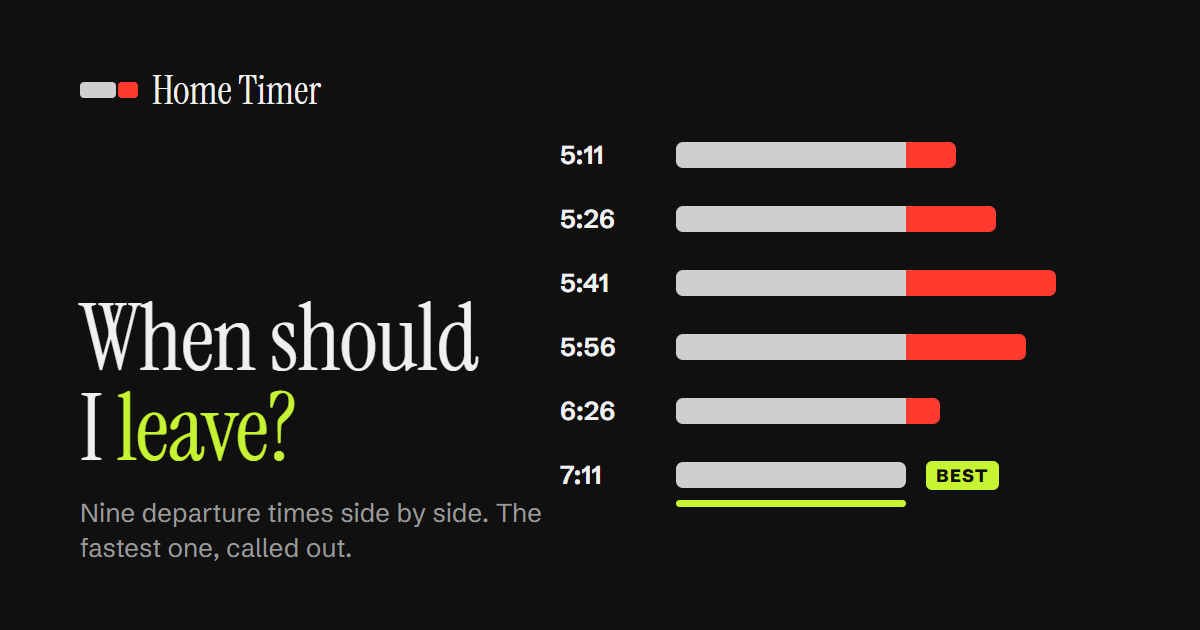
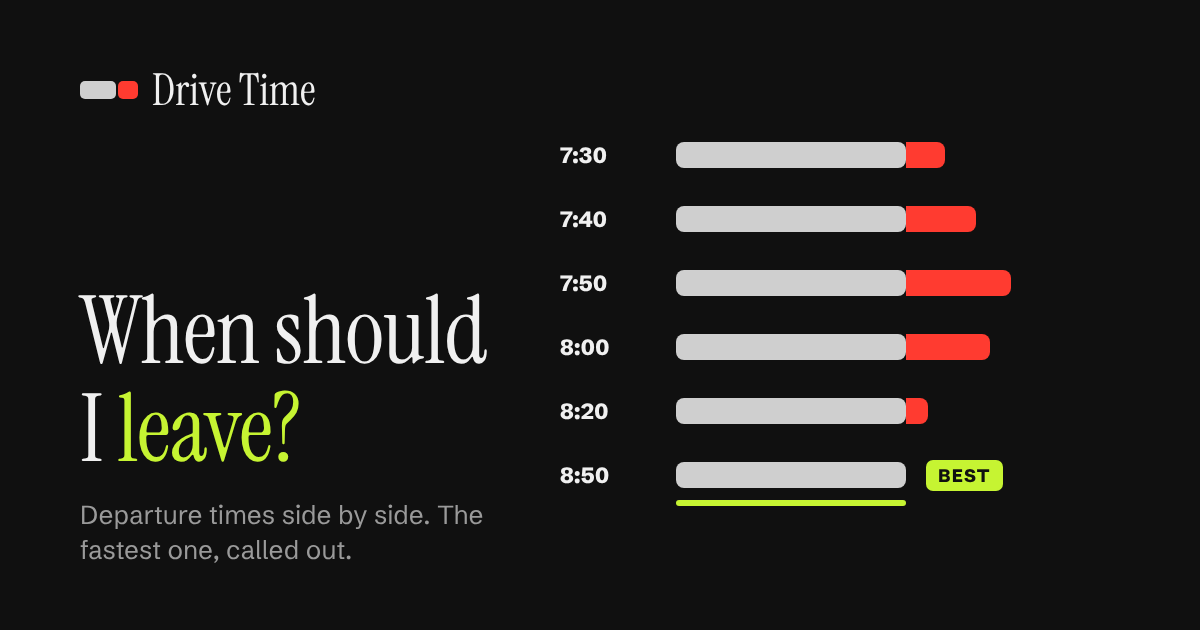
feat: rename the app Drive Time and serve it on drive-time.unit42.fr
UI name, manifest, SEO (title, Open Graph, canonical, JSON-LD, sitemap, robots), the social
image and the docs now say Drive Time. The old host stays attached to the Worker, and the
Worker keeps its name so Workers Builds still matches.

diff --git a/index.html b/index.html
@@ -3,13 +3,13 @@
   <head>
     <meta charset="UTF-8" />
     <meta name="viewport" content="width=device-width, initial-scale=1.0, viewport-fit=cover" />
-    <title>Home Timer: when should I leave?</title>
+    <title>Drive Time: when should I leave?</title>
     <meta
       name="description"
-      content="Compare car travel times for nine departure times side by side and find the best moment to leave. Typical traffic by weekday and time, free, no account."
+      content="Compare car travel times for departure times over the next hours, side by side, and find the best moment to leave. Typical traffic by weekday and time, adjusted for live traffic. Free, no account."
     />
     <meta name="robots" content="index, follow" />
-    <link rel="canonical" href="https://home-timer.unit42.fr/" />
+    <link rel="canonical" href="https://drive-time.unit42.fr/" />
 
     <link rel="icon" type="image/svg+xml" href="/favicon.svg" />
     <link rel="icon" type="image/png" sizes="32x32" href="/icons/favicon-32.png" />
@@ -19,40 +19,40 @@
     <meta name="color-scheme" content="dark light" />
     <meta name="apple-mobile-web-app-capable" content="yes" />
     <meta name="apple-mobile-web-app-status-bar-style" content="black-translucent" />
-    <meta name="apple-mobile-web-app-title" content="Home Timer" />
+    <meta name="apple-mobile-web-app-title" content="Drive Time" />
 
     <meta property="og:type" content="website" />
-    <meta property="og:site_name" content="Home Timer" />
-    <meta property="og:title" content="Home Timer: when should I leave?" />
+    <meta property="og:site_name" content="Drive Time" />
+    <meta property="og:title" content="Drive Time: when should I leave?" />
     <meta
       property="og:description"
-      content="Nine departure times side by side, with the fastest one called out. Typical traffic, no account."
+      content="Departure times side by side, with the fastest one called out. Typical traffic adjusted for live traffic, no account."
     />
-    <meta property="og:url" content="https://home-timer.unit42.fr/" />
-    <meta property="og:image" content="https://home-timer.unit42.fr/og-image.png" />
+    <meta property="og:url" content="https://drive-time.unit42.fr/" />
+    <meta property="og:image" content="https://drive-time.unit42.fr/og-image.png" />
     <meta property="og:image:width" content="1200" />
     <meta property="og:image:height" content="630" />
     <meta
       property="og:image:alt"
-      content="Home Timer: bars comparing nine departure times, the fastest one underlined."
+      content="Drive Time: bars comparing departure times, the fastest one underlined."
     />
     <meta property="og:locale" content="en_US" />
     <meta property="og:locale:alternate" content="fr_FR" />
     <meta name="twitter:card" content="summary_large_image" />
-    <meta name="twitter:title" content="Home Timer: when should I leave?" />
+    <meta name="twitter:title" content="Drive Time: when should I leave?" />
     <meta
       name="twitter:description"
-      content="Nine departure times side by side, with the fastest one called out. Typical traffic, no account."
+      content="Departure times side by side, with the fastest one called out. Typical traffic adjusted for live traffic, no account."
     />
-    <meta name="twitter:image" content="https://home-timer.unit42.fr/og-image.png" />
+    <meta name="twitter:image" content="https://drive-time.unit42.fr/og-image.png" />
 
     <script type="application/ld+json">
       {
         "@context": "https://schema.org",
         "@type": "WebApplication",
-        "name": "Home Timer",
-        "url": "https://home-timer.unit42.fr/",
-        "description": "Compare car travel times for nine departure times side by side and find the best moment to leave.",
+        "name": "Drive Time",
+        "url": "https://drive-time.unit42.fr/",
+        "description": "Compare car travel times for departure times over the next hours, side by side, and find the best moment to leave.",
         "applicationCategory": "NavigationApplication",
         "operatingSystem": "Any",
         "browserRequirements": "Requires a modern browser with JavaScript",
@@ -64,8 +64,8 @@
   <body>
     <div id="root"></div>
     <noscript>
-      Home Timer compares car travel times for nine departure times so you can pick the best moment
-      to leave. It needs JavaScript to run.
+      Drive Time compares car travel times for departure times over the next hours so you can pick
+      the best moment to leave. It needs JavaScript to run.
     </noscript>
     <script type="module" src="/src/main.tsx"></script>
   </body>

diff --git a/src/i18n/fr.ts b/src/i18n/fr.ts
@@ -4,7 +4,7 @@ type Widen<T> = T extends string ? string : never;
 export type Messages = { [K in keyof typeof en]: Widen<(typeof en)[K]> };
 
 export const fr: Messages = {
-  appName: 'Home Timer',
+  appName: 'Drive Time',
   settings: 'Paramètres',
   from: 'De',
   to: 'Vers',
@@ -42,7 +42,7 @@ export const fr: Messages = {
   settings_privacy: 'Vos lieux restent sur cet appareil',
   settings_save: 'Enregistrer',
   settings_close: 'Fermer',
-  onboarding_title: 'Bienvenue dans Home Timer',
+  onboarding_title: 'Bienvenue dans Drive Time',
   empty_state: 'Aucun trajet enregistré pour le moment',
   loading: 'Chargement...',
   error_unavailable: 'Le service est indisponible pour le moment. Réessayez plus tard.',

diff --git a/src/i18n/en.ts b/src/i18n/en.ts
@@ -1,5 +1,5 @@
 export const en = {
-  appName: 'Home Timer',
+  appName: 'Drive Time',
   settings: 'Settings',
   from: 'From',
   to: 'To',
@@ -37,7 +37,7 @@ export const en = {
   settings_privacy: 'Your places stay on this device',
   settings_save: 'Save',
   settings_close: 'Close',
-  onboarding_title: 'Welcome to Home Timer',
+  onboarding_title: 'Welcome to Drive Time',
   empty_state: 'No trips saved yet',
   loading: 'Loading...',
   error_unavailable: 'The service is unavailable right now. Please try again later.',

diff --git a/src/components/BrandBand/BrandBand.test.tsx b/src/components/BrandBand/BrandBand.test.tsx
@@ -12,7 +12,7 @@ describe('BrandBand', () => {
         <BrandBand onOpenSettings={onOpenSettings} />
       </I18nProvider>,
     );
-    expect(screen.getByRole('heading', { name: 'Home Timer' })).toBeInTheDocument();
+    expect(screen.getByRole('heading', { name: 'Drive Time' })).toBeInTheDocument();
     await userEvent.click(screen.getByRole('button', { name: 'Settings' }));
     expect(onOpenSettings).toHaveBeenCalledOnce();
   });

diff --git a/worker/proxy.test.ts b/worker/proxy.test.ts
@@ -2,7 +2,7 @@
 import { describe, expect, it, vi } from 'vitest';
 import { handleApiRequest, type Env, type Fetcher } from './proxy';
 
-const ORIGIN = 'https://home-timer.unit42.fr';
+const ORIGIN = 'https://drive-time.unit42.fr';
 const KEY = 'server-secret';
 const SAME_ORIGIN = { 'Sec-Fetch-Site': 'same-origin' };
 const ROUTE = '/api/routing/1/calculateRoute/45.764043,4.835659:48.856614,2.352222/json';

diff --git a/src/App.test.tsx b/src/App.test.tsx
@@ -83,7 +83,7 @@ beforeEach(() => {
 describe('App', () => {
   it('renders heading', () => {
     renderApp();
-    expect(screen.getByRole('heading', { name: /Home Timer/i })).toBeInTheDocument();
+    expect(screen.getByRole('heading', { name: /Drive Time/i })).toBeInTheDocument();
   });
 
   it('answers first, then shows nine departures with the best one tagged', () => {

diff --git a/vite.config.ts b/vite.config.ts
@@ -10,8 +10,8 @@ export default defineConfig(
       VitePWA({
         registerType: 'autoUpdate',
         manifest: {
-          name: 'Home Timer',
-          short_name: 'Home Timer',
+          name: 'Drive Time',
+          short_name: 'Drive Time',
           display: 'standalone',
           lang: 'en',
           description:

diff --git a/DESIGN.md b/DESIGN.md
@@ -1,5 +1,5 @@
 ---
-name: Home Timer
+name: Drive Time
 description: A night-first departure comparison in neutral tarmac grey, where pale grey bars show the trip, red shows the minutes traffic adds, and one acid lime marks everything you can act on.
 colors:
   ground: '#101010'
@@ -184,13 +184,13 @@ components:
     rounded: '{rounded.sheet}'
 ---
 
-# Design System: Home Timer
+# Design System: Drive Time
 
 ## Overview
 
 **Creative North Star: "Tarmac"**
 
-Home Timer is read at the door, in the car, or at a dim desk before dawn, so it is night-first: a true neutral near-black ground (#101010) with no warm or blue cast, like a road at night. Colour is rationed to two signals that carry meaning and nothing else competes with them: **acid lime** is everything you can act on or should take (focus, the active choice, the primary action, the best slot), and **traffic red** is the minutes traffic adds. The trip itself is a pale grey bar, so a driver reads the length first and the cost second.
+Drive Time is read at the door, in the car, or at a dim desk before dawn, so it is night-first: a true neutral near-black ground (#101010) with no warm or blue cast, like a road at night. Colour is rationed to two signals that carry meaning and nothing else competes with them: **acid lime** is everything you can act on or should take (focus, the active choice, the primary action, the best slot), and **traffic red** is the minutes traffic adds. The trip itself is a pale grey bar, so a driver reads the length first and the cost second.
 
 The type has a human voice. Instrument Serif sets only the wordmark, the sheet titles and the answer ("Leave 7:04 PM", the time in lime); everything else, including every figure a driver compares, is Schibsted Grotesk. There is no width axis and no mixed display faces. Copy is plain and admits uncertainty ("Estimated from typical traffic", a SAMPLE DATA tag until real places are set).
 
@@ -289,7 +289,7 @@ Controls are pills (999px): buttons, the segmented control, the time button, the
 
 ### Brand band
 
-56px band, no divider: the road mark and "Home Timer" in Brand (Instrument Serif 24px) on the left, a 44px round settings button in muted on the right (`raised`-tint hover).
+56px band, no divider: the road mark and "Drive Time" in Brand (Instrument Serif 24px) on the left, a 44px round settings button in muted on the right (`raised`-tint hover).
 
 ### Route block, swap and locate
 

diff --git a/README.md b/README.md
@@ -1,4 +1,4 @@
-# Home Timer
+# Drive Time
 
 When should I leave? Pick where you start and where you are going, and see the car travel time for a list of departure times side by side: your start time, then one departure every 10 minutes for three hours (19 rows). Settings change the reach (2, 3 or 4 hours) and the step (5, 10, 15 or 30 minutes), up to 25 rows. The fastest one is called out. Tap a row to restart the list at that time.
 
@@ -36,7 +36,7 @@ Geolocation and service workers need HTTPS in production (localhost is exempt). 
 
 ## Deploy
 
-Hosted as a Cloudflare Worker with static assets (`wrangler.jsonc`), served on `home-timer.unit42.fr`. The custom domain is created by `wrangler deploy` as long as the `unit42.fr` zone is in the same Cloudflare account.
+Hosted as a Cloudflare Worker with static assets (`wrangler.jsonc`), served on `drive-time.unit42.fr`. The custom domain is created by `wrangler deploy` as long as the `unit42.fr` zone is in the same Cloudflare account. The former host `home-timer.unit42.fr` stays attached to the same Worker so old links and installed copies keep working; browser storage is per host, so Home and Work saved there are not shared with the new one. The Worker keeps its original name `home-timer`.
 
 Push-to-deploy uses Workers Builds. In the dashboard: Workers & Pages, Create application, GitHub, pick this repo, then set:
 

diff --git a/PRODUCT.md b/PRODUCT.md
@@ -38,7 +38,7 @@ Origin comes from the device's location or a typed place. Destination is typed o
 
 ## Brand Commitments
 
-Name: Home Timer. UI languages: English and French, auto-detected, switchable in Settings.
+Name: Drive Time. UI languages: English and French, auto-detected, switchable in Settings.
 
 ## Evidence on Hand
 
